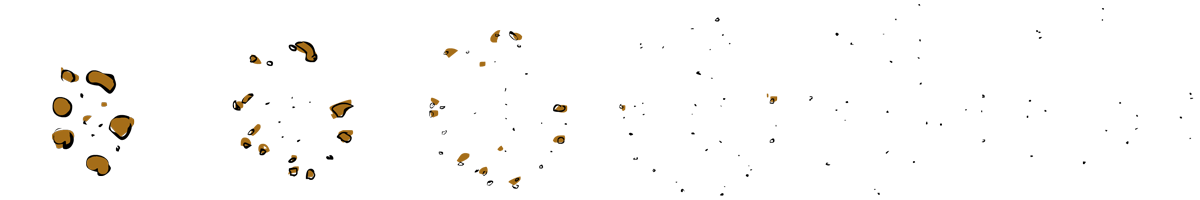
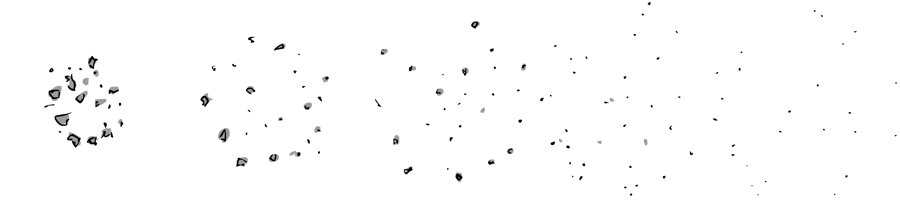
add second debris

diff --git a/src/client/objects/debris1.conf.js b/src/client/objects/debris1.conf.js
@@ -5,24 +5,24 @@ var config = require('../baseConfig');
 module.exports = config({
   sprites: {
     debris: {
-      animationName: 'debris-0-fly',
-      imageSrc: '/images/debris/debris-0-fly-small.png',
+      animationName: 'debris-1-fly',
+      imageSrc: '/images/debris/debris-1.png',
       frames: [1, 2, 3, 4, 5, 6],
       width: 40,
       height: 40,
       frameRate: 15
     },
     debrisInverted: {
-      animationName: 'debris-0-fly-inverted',
-      imageSrc: '/images/debris/debris-0-fly-small.png',
+      animationName: 'debris-1-fly-inverted',
+      imageSrc: '/images/debris/debris-1.png',
       frames: [6, 5, 4, 3, 2, 1],
       width: 40,
       height: 40,
       frameRate: 5
     },
     explode: {
-      animationName: 'debris-explode',
-      imageSrc: '/images/debris/debris-0-death.png',
+      animationName: 'debris-1-explode',
+      imageSrc: '/images/debris/debris-1-death.png',
       frames: [1, 2, 3, 4, 5],
       width: 180,
       height: 200,

diff --git a/src/client/objects/debris2.conf.js b/src/client/objects/debris2.conf.js
@@ -1,0 +1,33 @@
+'use strict';
+
+var config = require('../baseConfig');
+
+module.exports = config({
+  sprites: {
+    debris: {
+      animationName: 'debris-2-fly',
+      imageSrc: '/images/debris/debris-2.png',
+      frames: [1, 2, 3],
+      width: 40,
+      height: 43,
+      frameRate: 15
+    },
+    debrisInverted: {
+      animationName: 'debris-2-fly-inverted',
+      imageSrc: '/images/debris/debris-2.png',
+      frames: [3, 2, 1],
+      width: 40,
+      height: 43,
+      frameRate: 5
+    },
+    explode: {
+      animationName: 'debris-2-explode',
+      imageSrc: '/images/debris/debris-2-death.png',
+      frames: [1, 2, 3, 4, 5],
+      width: 240,
+      height: 200,
+      frameRate: 12
+    }
+  },
+  speeds: [1.2, 1.5, 1.8]
+});

diff --git a/src/client/objects/debris.js b/src/client/objects/debris.js
@@ -2,9 +2,13 @@
 
 var sample = require('lodash/sample');
 
-var config = require('./debris.conf');
+var configs = [
+  require('./debris1.conf'),
+  require('./debris2.conf')
+];
 
 function Debris(game, pos) {
+  var config = sample(configs);
   var spriteConfig = sample([
     config.sprites.debris,
     config.sprites.debrisInverted

diff --git a/src/client/states/boot.js b/src/client/states/boot.js
@@ -4,7 +4,8 @@ var invokeMap = require('lodash/invokeMap');
 
 var configs = [
   require('../objects/player.conf'),
-  require('../objects/debris.conf'),
+  require('../objects/debris1.conf'),
+  require('../objects/debris2.conf'),
   require('../level1.conf.js'),
   require('../objects/weapon1.conf.js')
 ];
